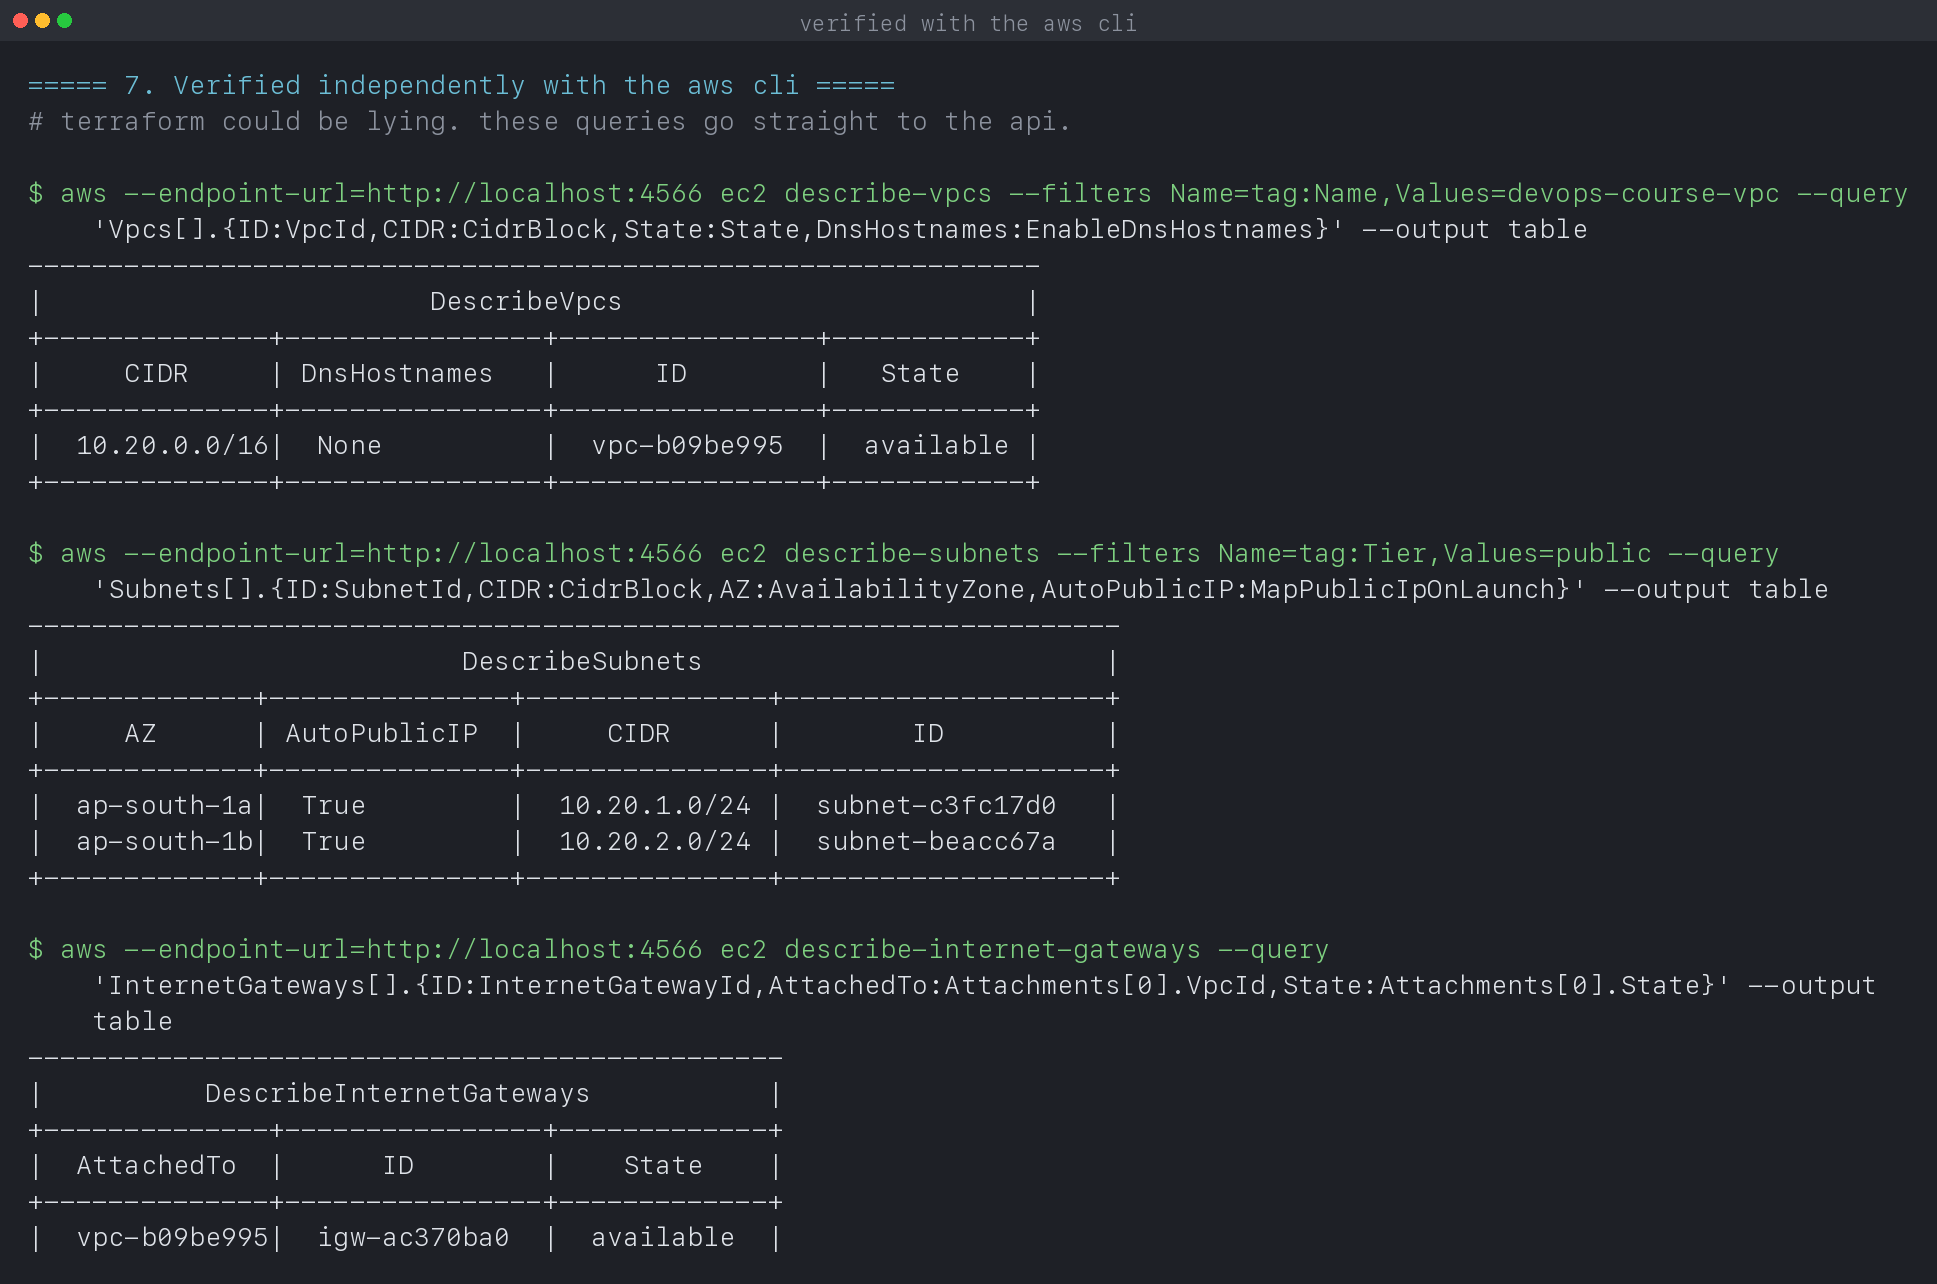
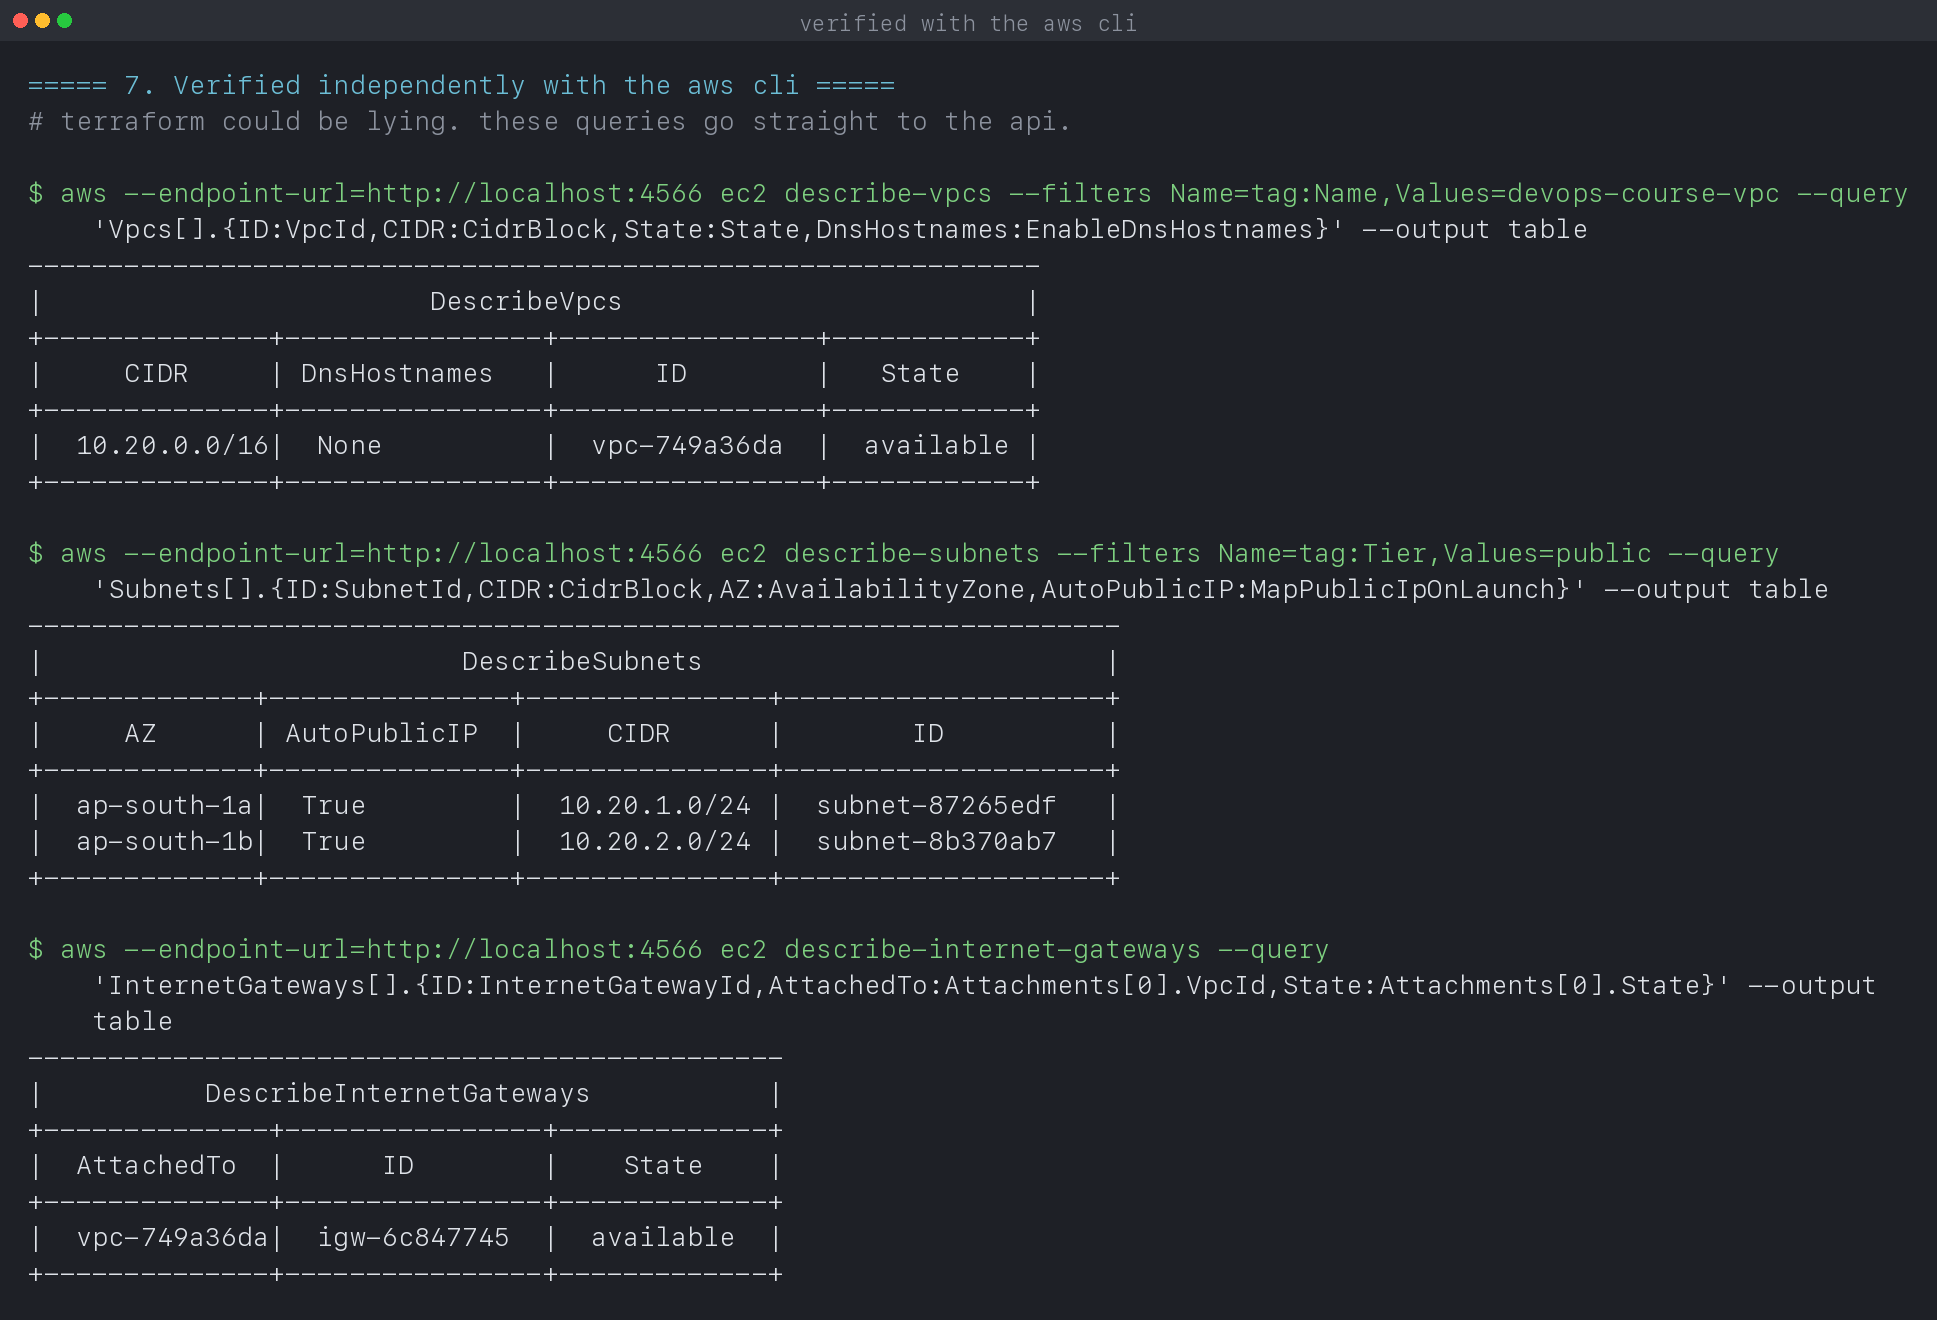
feat(cloud): add the instance and bucket the architecture calls for
The network now holds something: an instance in the first public subnet
carrying the web security group, and a bucket with public access blocked.
Eleven resources applied and read back with the aws cli.

The AMI is looked up rather than hardcoded, since ids are per region, the same
reason the availability zones are.

Two things cost time and are recorded in the readme. The provider needs
s3_use_path_style against LocalStack, without which every S3 call returned 500
while EC2 in the same configuration was fine. And an abandoned run left a
state lock and a terminated instance behind, so the following run produced a
log describing infrastructure that did not exist.

diff --git a/11_Cloud_Terraform/README.md b/11_Cloud_Terraform/README.md
@@ -5,8 +5,8 @@
 **Terraform:** v1.16.4, AWS provider v5.100.0
 
 A VPC with two public subnets across two availability zones, an internet
-gateway, a route table and a security group, built with Terraform and then
-checked independently with the AWS CLI. Every output block is quoted from
+gateway, a route table, a security group, an EC2 instance and an S3 bucket,
+built with Terraform and then checked independently with the AWS CLI. Every output block is quoted from
 [`output.log`](output.log), written by [`verify.sh`](verify.sh).
 
 ---
@@ -226,15 +226,65 @@ SSH, which is the single most common real world misconfiguration.
 
 ---
 
-## 7. apply, and checking it independently
+## 7. Compute and storage in the network
+
+The network exists to put something in it. The instance goes in the first
+public subnet, carrying the security group from section 6.
+
+```hcl
+data "aws_ami" "amazon_linux" {
+  most_recent = true
+  owners      = ["amazon"]
+  filter {
+    name   = "name"
+    values = ["al2023-ami-*-x86_64"]
+  }
+}
+
+resource "aws_instance" "web" {
+  ami                         = data.aws_ami.amazon_linux.id
+  instance_type               = var.instance_type
+  subnet_id                   = aws_subnet.public[0].id
+  vpc_security_group_ids      = [aws_security_group.web.id]
+  associate_public_ip_address = true
+}
+```
+
+The AMI is looked up rather than written down, for the same reason the
+availability zones are: **AMI ids are per region**, so a hardcoded one makes
+the configuration unusable anywhere else.
+
+`associate_public_ip_address` is not what makes this reachable. The subnet's
+route to the internet gateway does that. Without the route, a public IP is an
+address nothing can get to.
+
+The bucket beside it blocks public access explicitly:
+
+```hcl
+resource "aws_s3_bucket_public_access_block" "assets" {
+  bucket                  = aws_s3_bucket.assets.id
+  block_public_acls       = true
+  block_public_policy     = true
+  ignore_public_acls      = true
+  restrict_public_buckets = true
+}
+```
+
+---
+
+## 8. apply, and checking it independently
 
 ```text
 $ terraform state list
+data.aws_ami.amazon_linux
 data.aws_availability_zones.available
+aws_instance.web
 aws_internet_gateway.main
 aws_route_table.public
 aws_route_table_association.public[0]
 aws_route_table_association.public[1]
+aws_s3_bucket.assets
+aws_s3_bucket_public_access_block.assets
 aws_security_group.web
 aws_subnet.public[0]
 aws_subnet.public[1]
@@ -280,15 +330,35 @@ $ aws ec2 describe-internet-gateways
 +--------------+----------------+-------------+
 ```
 
+```text
+$ aws ec2 describe-instances --filters Name=tag:Name,Values=devops-course-web
++----------------------+------------+----------+------------------+------------+
+|          ID          | PrivateIP  |  State   |     Subnet       |   Type     |
++----------------------+------------+----------+------------------+------------+
+|  i-5689413d1f19a0c07 |  10.20.1.4 |  running |  subnet-87265edf |  t3.micro  |
++----------------------+------------+----------+------------------+------------+
+
+$ aws s3 ls
+2026-10-08 01:02:37 devops-course-24bcs10406-assets
+
+$ aws s3api get-public-access-block --bucket devops-course-24bcs10406-assets
+||  BlockPublicAcls        |  True ||
+||  BlockPublicPolicy      |  True ||
+||  IgnorePublicAcls       |  True ||
+||  RestrictPublicBuckets  |  True ||
+```
+
 Two subnets in two different AZs, `MapPublicIpOnLaunch` true, and the gateway
-attached to this VPC specifically. `DnsHostnames` shows `None` because
+attached to this VPC specifically. The instance landed in the first subnet with
+a `10.20.1.x` address from that subnet's range, and the bucket has all four
+public access blocks on. `DnsHostnames` shows `None` because
 LocalStack does not report that attribute through `describe-vpcs`, though it is
 set in the configuration. That is a gap in the emulator rather than in the
 Terraform, and worth flagging rather than glossing over.
 
 ---
 
-## 8. Idempotency and destroy
+## 9. Idempotency and destroy
 
 ```text
 $ terraform plan | tail -4
@@ -310,7 +380,7 @@ has anything in it.
 
 ---
 
-## 9. What I took away
+## 10. What I took away
 
 - An SCP cannot be overridden from inside the account. More IAM permissions
   would not have helped, and recognising that saved a lot of wasted effort.
@@ -325,25 +395,31 @@ has anything in it.
 - Security groups are stateful and allow only, so return traffic needs no rule
   and nothing can be explicitly denied.
 - `terraform output` and an independent API query are different claims.
-  Checking both is the habit worth keeping.
+  Checking both is the habit worth keeping, and it caught a stale log here: an
+  abandoned run left a terminated instance and a state lock behind, and the
+  next run's output described infrastructure that had not been built.
+- The provider needs `s3_use_path_style` against LocalStack. Without it every
+  S3 call returned 500 and Terraform retried until it was killed, while EC2 in
+  the same configuration worked fine.
 
 ---
 
-## 10. Screenshots
+## 11. Screenshots
 
 | What it shows | Capture |
 |---|---|
-| `apply` creating the VPC and its 9 resources | [s19-01-apply.png](screenshots/s19-01-apply.png) |
+| `apply` creating all 11 resources | [s19-01-apply.png](screenshots/s19-01-apply.png) |
 | State list and outputs | [s19-02-state-outputs.png](screenshots/s19-02-state-outputs.png) |
 | VPC, subnets and gateway read back from the API | [s19-03-verify-vpc-subnets.png](screenshots/s19-03-verify-vpc-subnets.png) |
 | The `0.0.0.0/0` route and the security group rule | [s19-04-routes-and-sg.png](screenshots/s19-04-routes-and-sg.png) |
-| A second plan finding nothing, then destroy | [s19-05-idempotent-destroy.png](screenshots/s19-05-idempotent-destroy.png) |
+| The instance in its subnet, and the bucket with public access blocked | [s19-05-ec2-and-s3.png](screenshots/s19-05-ec2-and-s3.png) |
+| A second plan finding nothing, then destroy | [s19-06-idempotent-destroy.png](screenshots/s19-06-idempotent-destroy.png) |
 
 ![The route that makes a subnet public](screenshots/s19-04-routes-and-sg.png)
 
 ---
 
-## 11. Reproducing this
+## 12. Reproducing this
 
 ```bash
 docker run -d --name localstack-tf -p 4566:4566 -e SERVICES=s3,ec2 localstack/localstack:3.8
@@ -358,7 +434,7 @@ cd vpc
 terraform apply -var use_localstack=false
 ```
 
-## 12. Cleanup
+## 13. Cleanup
 
 ```bash
 cd vpc && terraform destroy -auto-approve
